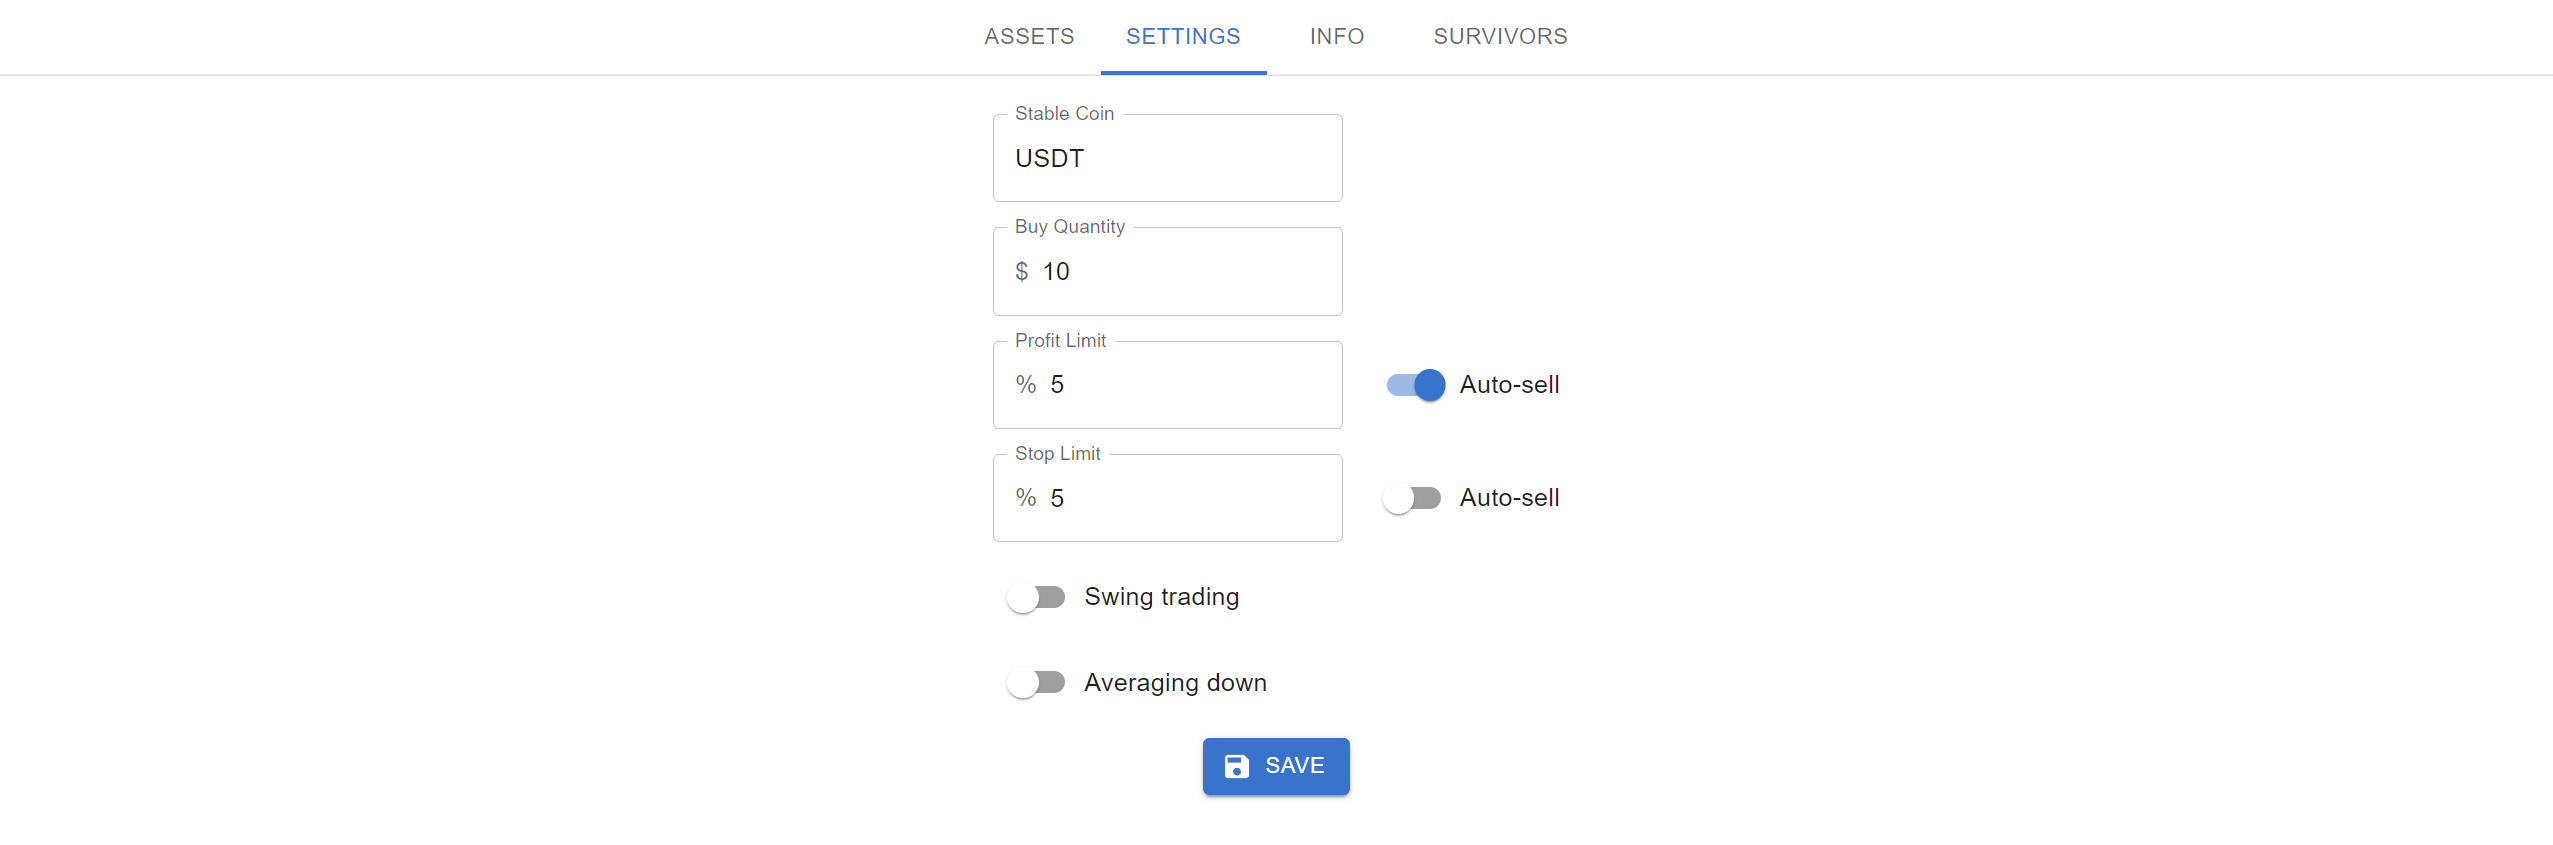
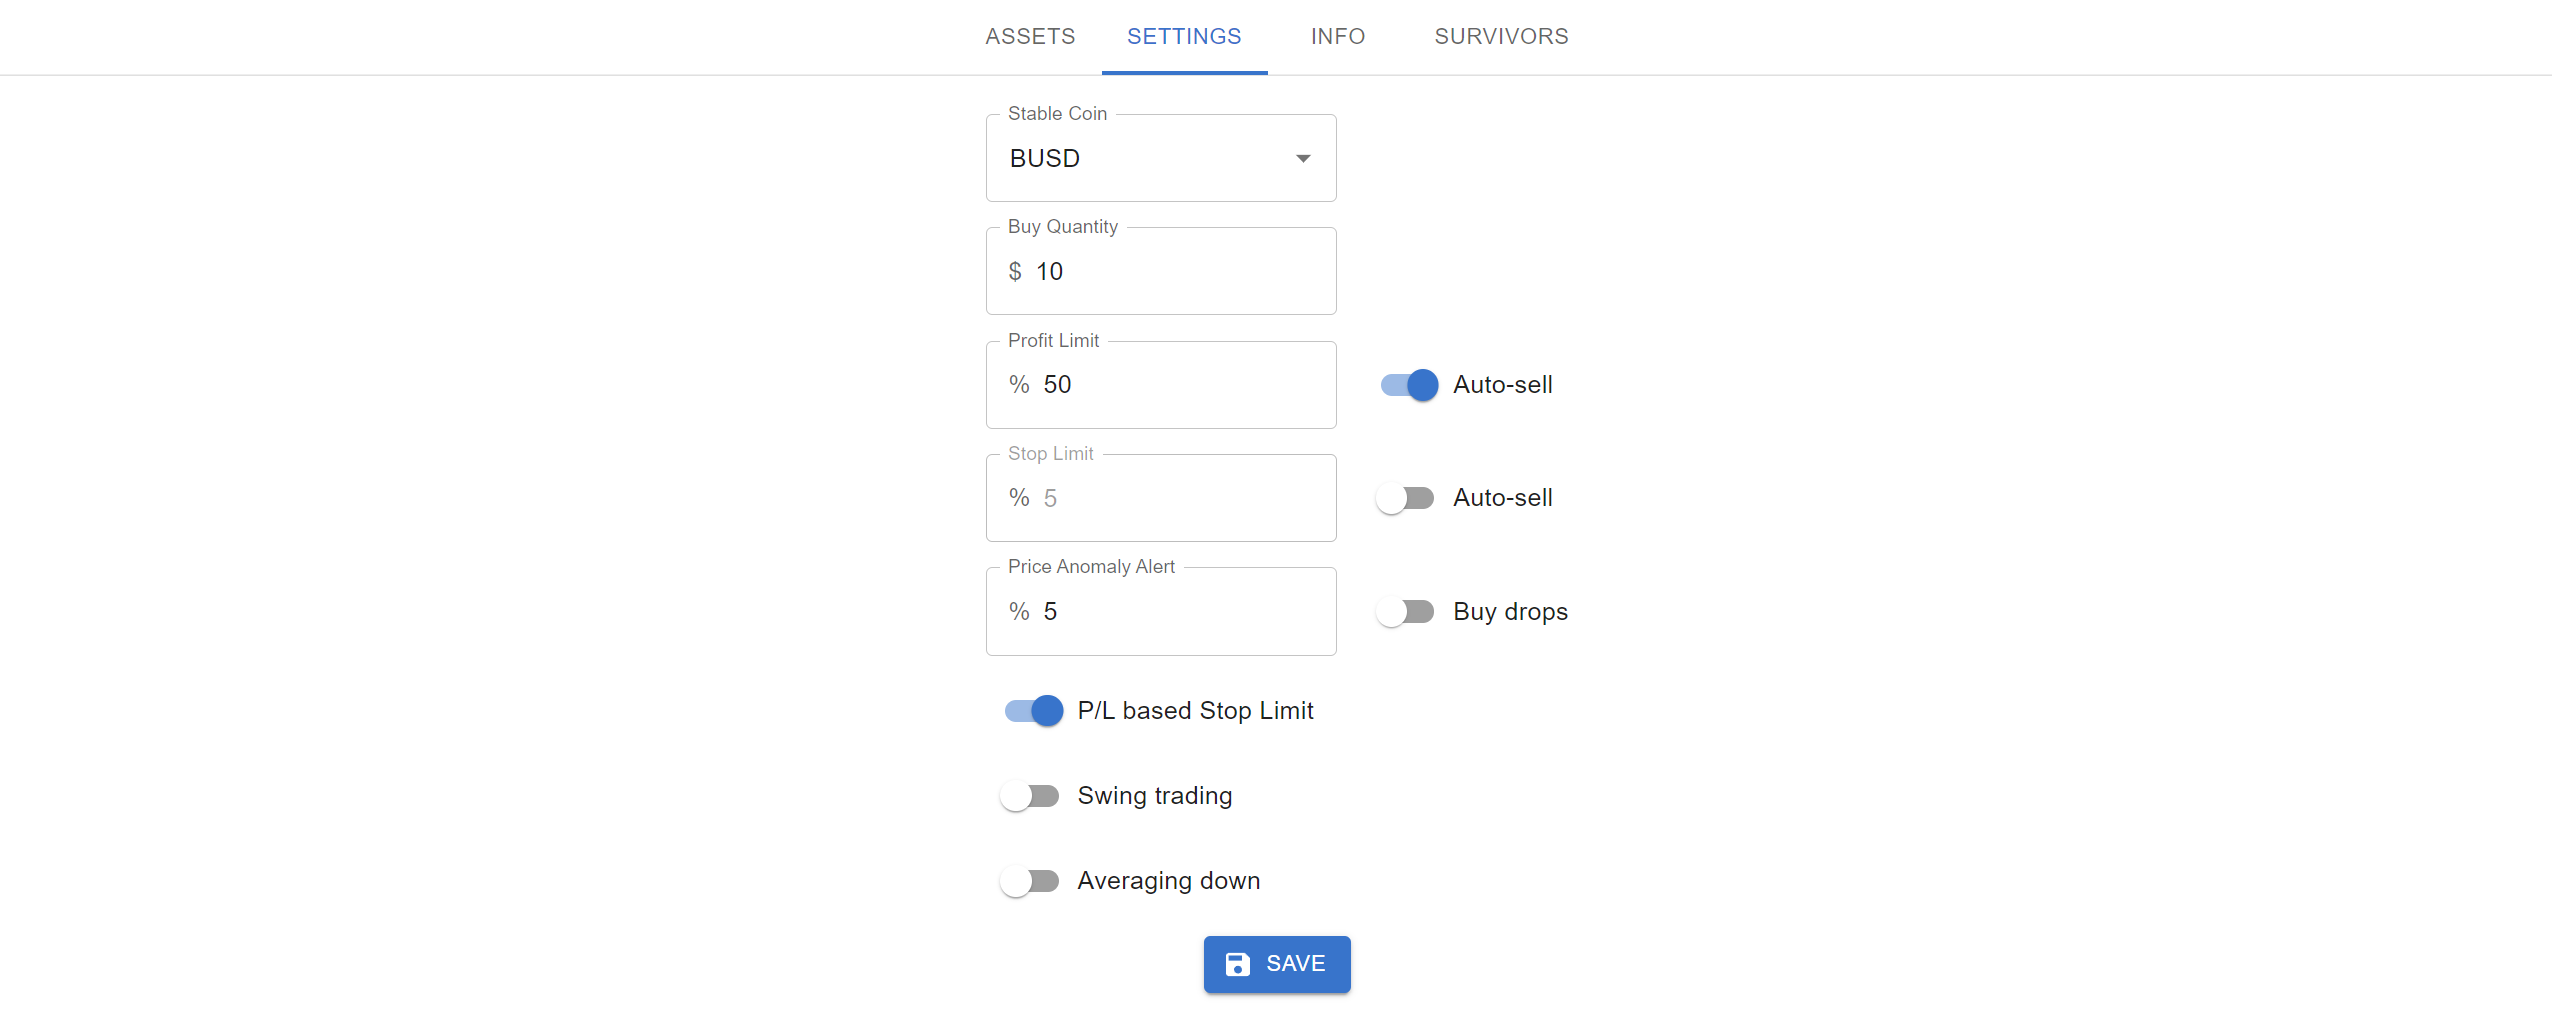
Update docs

diff --git a/README.md b/README.md
@@ -13,17 +13,19 @@ Buy me a coffee, to support this project. It will not evolve without your suppor
 
 * [patreon.com/bogdantimes](patreon.com/bogdantimes)
 * [revolut.me/bogdantimes](revolut.me/bogdantimes)
-* USDT / BNB: **0x8aed61ca4e9fe5c221839ceb82c5f3f034d6b60e** (BEP20)
+* USDT/USDC/BUSD/BNB: **0x8aed61ca4e9fe5c221839ceb82c5f3f034d6b60e** (BEP20)
 
 ## Features
 
 * Integration with Binance: buy and sell coins on the spot.
 * Set up your profit and stop limits to automatically sell coins when the limits are crossed.
 * A moving stop-limit, which goes up together with the price.
+* A stop-limit based on a total profit of the tool.
+* Price anomalies detection (pump or dump) with an option to auto-buy when price drops.
 * Swing trading: automatically buy low and sell high during the rally.
 * Averaging down: automatically re-invest gains into most unprofitable coins to buy them at discount prices.
 * Your statistics: see how much you have made and how much you have lost on a daily basis.
-* Survivors: tracks currencies that keep the price when 99% of the market goes down
+* Survivors: currencies that show movement up when 99% of the market goes down or not moves.
 
 ### Assets
 ![assets.png](img/assets.png)
@@ -41,7 +43,7 @@ Buy me a coffee, to support this project. It will not evolve without your suppor
 1. Google account.
 2. Binance account and Binance API token and key for spot trading.
 
-### Setup latest build
+### Set up the latest build
 
 There are ready to use builds published in the Google Apps Script and made available to everyone via a link.
 Links are attached to each release. See [latest release](https://github.com/bogdan-kovalev/trading-helper/releases/latest).
@@ -49,6 +51,7 @@ Links are attached to each release. See [latest release](https://github.com/bogd
 You will need to clone the Google Apps Script project to your account and set it up.
 See the [Tutorials playlist on YouTube](https://www.youtube.com/playlist?list=PLAiqSgC5hs1fcFglYk81W7hpNRJbqu0Ox). The setup was simplified as much as possible for this kind of project.
 
-### Setup from sources
+### Set up from sources
 
+Setting up using the command line interface.
 See [CONTRIBUTING.md](./CONTRIBUTING.md) to set up the tool from sources.

diff --git a/CHANGELOG.md b/CHANGELOG.md
@@ -1,9 +1,12 @@
 # v2.5.0
 
+* Added price anomalies alerts with an option to auto-buy when price drops.
+* Added profit-based stop limit option, which calculates stop limits based on the available total profit.
 * Added "Edit" mode and "Delete" action for Assets cards.
 * Added visual indication on Assets cards when price goes down.
 * Significantly improved the lag between UI request and the backend side state change.
 * Improved Binance errors handling.
+* System refactoring under the hood.
 
 # v2.4.0
 
